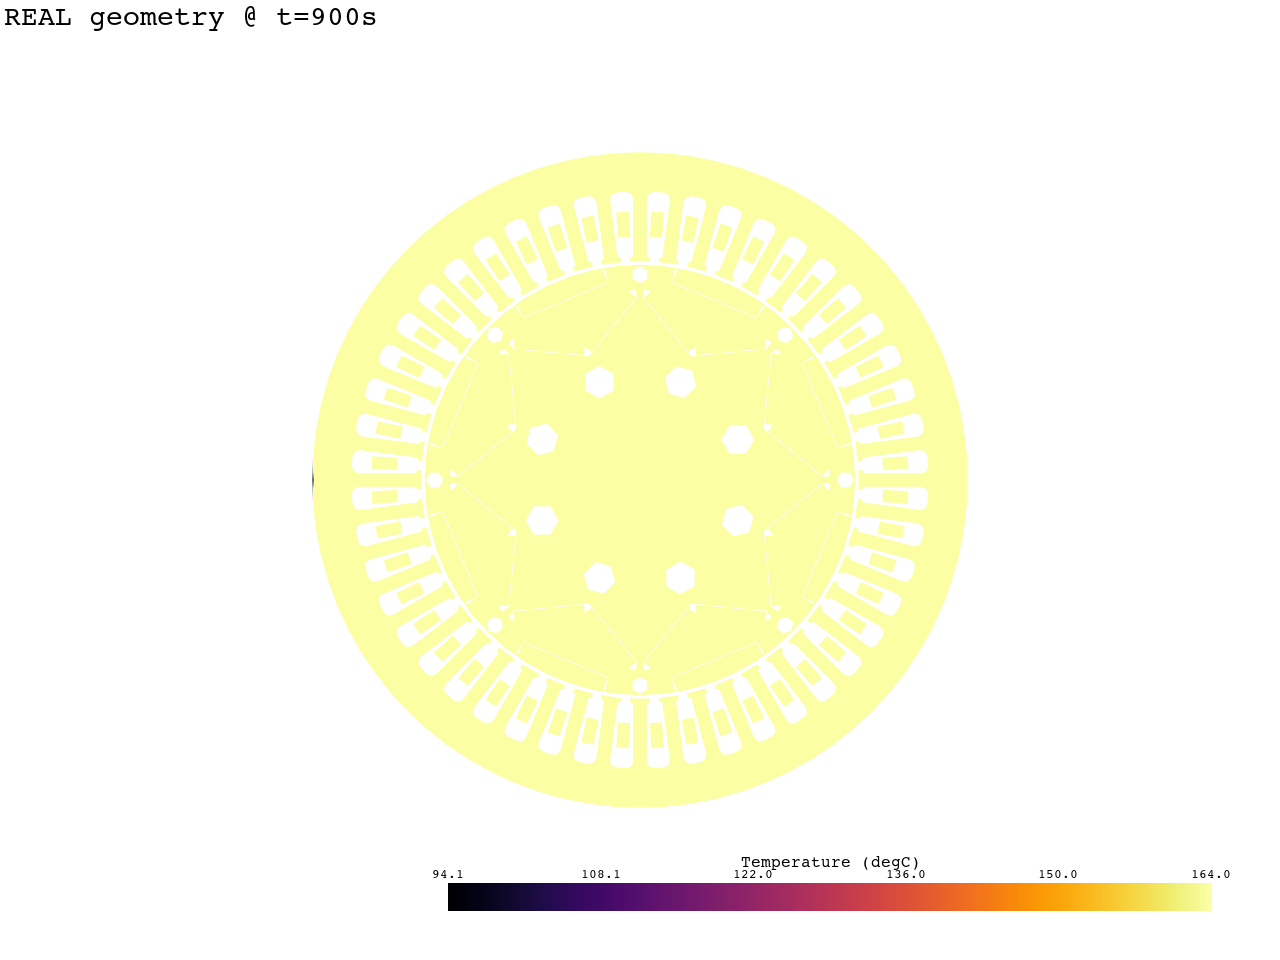
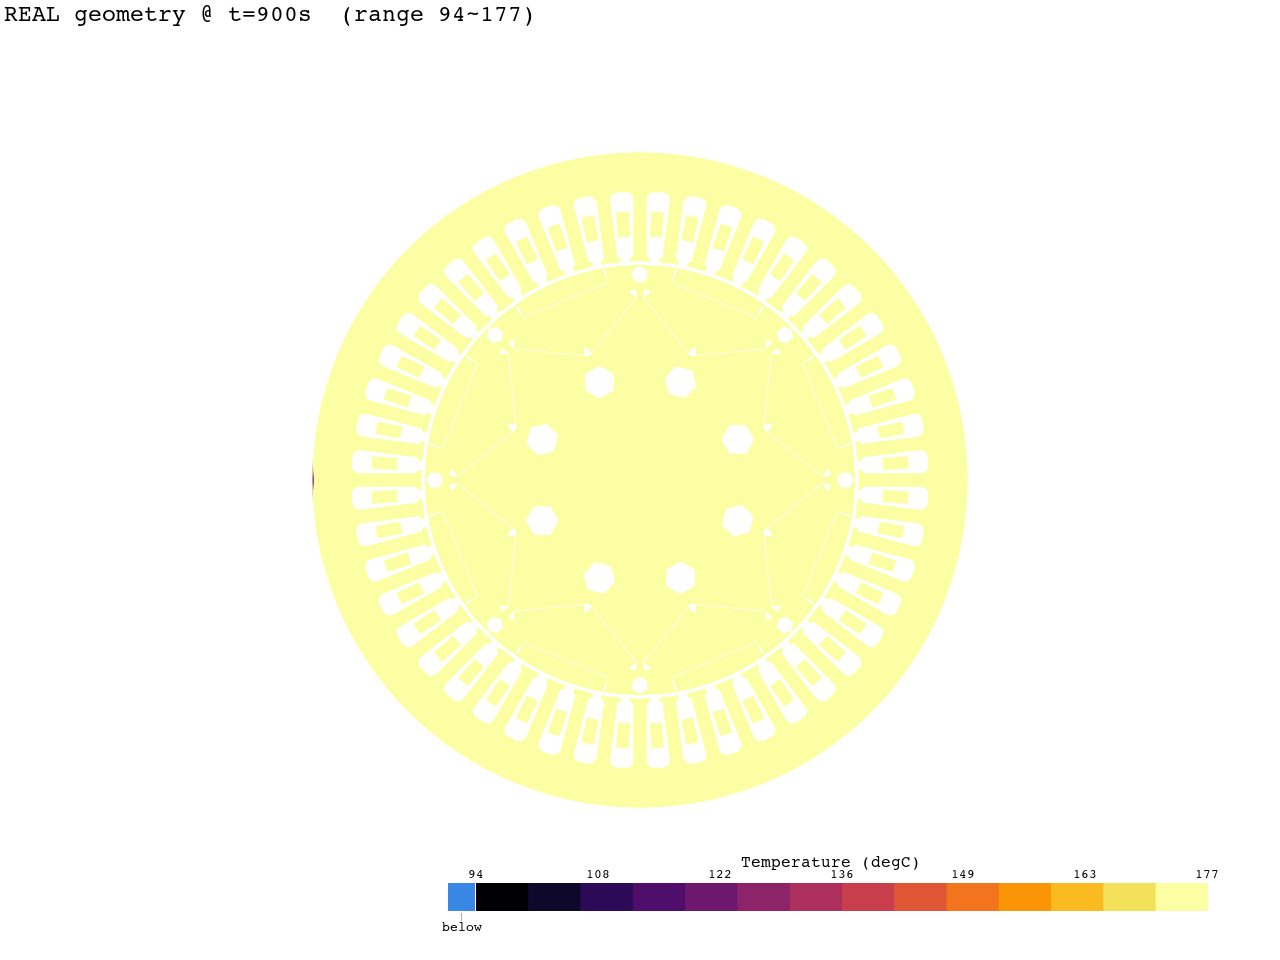
[THERMAL] SURF152 결합 시각화 + 컨투어 균일해 보임 원인 수정
- real_couplings_3d(_cut).png: FEM 표면 패치를 대상 회로노드별 카테고리색으로
  칠하고 같은 색 노드 구체와 튜브 연결 - 스테이터OD 3분할(H_WJ/H_RST/ATF),
  공극 양면(GAP_S/R), 코일컷->CEND, 정션(2xTCC) 회색 등 결합 구조 한눈에.
- 컨투어/GIF 개선: clim 이 회로노드 온도(CEND_AIR 219.9C)에 오염되던 버그 수정
  (솔리드 전용 범위 70~177.2C) + 이산 컬러밴드(n_colors=14)로 저 Biot 수 기계의
  좁은 내부 온도폭(141~177C)이 읽히게 함. real_contour_iso_band.png 는
  140C~ 좁은범위 뷰(WJ 패치는 하한색 클립).
- 균일해 보이는 것 자체는 물리(내부전도저항<<표면저항, 전 기계 온도폭 36K).

Changed region(s): [[0.3438, 0.9062, 0.5938, 0.9688], [0.0, 0.0, 0.4062, 0.0312], [0.8125, 0.9062, 0.9688, 0.9688]]

diff --git a/mlxperPJT/thermal/make_couplings_viz.py b/mlxperPJT/thermal/make_couplings_viz.py
@@ -1,0 +1,156 @@
+# -*- coding: utf-8 -*-
+"""SURF152 결합 시각화: FEM 표면 패치(노드별 색) <-> 회로 노드."""
+import os
+import glob
+import traceback
+import numpy as np
+
+SP = r"C:\Users\moa\AppData\Local\Temp\claude\d--KDH-NvidiaNemo\292f8893-fe65-44a6-9565-cb88503b2e90\scratchpad"
+OUT = os.path.join(SP, "viz_real")
+log = open(os.path.join(SP, "viz_coup.txt"), "w", encoding="utf-8")
+def P(*a):
+    log.write(" ".join(str(x) for x in a) + "\n"); log.flush()
+
+try:
+    import pyvista as pv
+    from ansys.mapdl import reader as rd
+    pv.OFF_SCREEN = True
+
+    rth = sorted(glob.glob(os.path.join(SP, "real_*", "file.rth")),
+                 key=os.path.getmtime)[-1]
+    res = rd.read_binary(rth)
+    grid = res.grid.copy()
+    tets = np.isin(grid.celltypes, (10, 24))
+    solid = grid.extract_cells(tets)
+    mats = np.asarray(solid.cell_data["ansys_material_type"])
+    surf = solid.extract_surface(pass_cellid=True)
+    oc = np.asarray(surf.cell_data["vtkOriginalCellIds"])
+    smat = mats[oc]
+    cc = surf.cell_centers().points
+    r = np.hypot(cc[:, 0], cc[:, 1])
+    th = np.degrees(np.arctan2(cc[:, 1], cc[:, 0]))
+    z = cc[:, 2]
+
+    R_SO, R_SI, R_RO = 0.099, 0.066, 0.065
+    STACK, ROT_ST = 0.160, 0.150
+    atf_q = (th > -135) & (th < -45)
+    wj_q = (th > 45) & (th < 135)
+
+    # 분류 (러너의 SURF152 선택 로직과 동일 기준)
+    cat = np.full(len(cc), -1, dtype=int)
+    names = {}
+    def C(idx, mask, name):
+        cat[mask & (cat == -1)] = idx
+        names[idx] = name
+    C(0, (smat == 1) & (r > R_SO - 8e-4) & wj_q, "stator OD -> H_WJ (h=3000)")
+    C(1, (smat == 1) & (r > R_SO - 8e-4) & atf_q, "stator OD -> ATF (h=300)")
+    C(2, (smat == 1) & (r > R_SO - 8e-4), "stator OD -> H_RST (h=3000)")
+    C(3, (smat == 1) & (np.abs(r - R_SI) < 8e-4), "stator bore -> GAP_S")
+    C(4, (smat == 5) & (r > R_RO - 8e-4) & (np.abs(z) < ROT_ST / 2 - 1e-3),
+      "rotor OD -> GAP_R")
+    C(5, (smat == 4) & (np.abs(z) > ROT_ST / 2 + 1e-4), "shaft ext -> SHF")
+    C(6, (smat == 5) & (np.abs(np.abs(z) - ROT_ST / 2) < 5e-4),
+      "rotor end -> AIR (h=10)")
+    C(7, (smat == 1) & (np.abs(np.abs(z) - STACK / 2) < 5e-4),
+      "stator end -> AIR (h=10)")
+    C(8, (smat == 3) & (np.abs(np.abs(z) - STACK / 2) < 5e-4) & atf_q,
+      "coil cut -> CEND_ATF")
+    C(9, (smat == 3) & (np.abs(np.abs(z) - STACK / 2) < 5e-4),
+      "coil cut -> CEND_AIR")
+    C(10, (smat == 3), "coil<->core slot junction (2xTCC)")
+    C(11, (smat == 1) & (r > R_SI) & (r < R_SO - 1e-3),
+      "slot wall<->junction (2xTCC)")
+    P("category cells:", {names.get(k, k): int((cat == k).sum())
+                          for k in sorted(set(cat.tolist()))})
+    surf.cell_data["coupling"] = cat
+
+    # 카테고리 색 (검증된 팔레트 8 + 보조)
+    PAL = {0: "#2a78d6", 2: "#1baf7a", 1: "#eda100", 3: "#4a3aa7",
+           4: "#e34948", 5: "#e87ba4", 6: "#008300", 7: "#7bbf6a",
+           8: "#eb6834", 9: "#b45309", 10: "#8a8878", 11: "#c3c2b7",
+           -1: "#eeede6"}
+    node_of = {0: "H_WJ", 1: "ATF", 2: "H_RST", 3: "GAP_S", 4: "GAP_R",
+               5: "SHF", 6: "AIR", 7: "AIR", 8: "CEND_ATF", 9: "CEND_AIR"}
+    P3 = {"WJ": (0, R_SO + 0.055, 0), "H_WJ": (0, R_SO + 0.025, 0),
+          "ATF": (0, -(R_SO + 0.055), 0), "H_ATF": (0, -(R_SO + 0.025), 0),
+          "H_RST": (R_SO + 0.025, 0, 0), "AMB": (R_SO + 0.095, 0, 0.02),
+          "AIR": (R_SO * 0.55, 0, STACK / 2 + 0.045),
+          "SHF": (0, 0, -(STACK / 2 + 0.06)),
+          "GAP_S": (R_SI + 0.006, 0, STACK * 0.30),
+          "GAP_R": (R_RO - 0.006, 0, -STACK * 0.30),
+          "CEND_ATF": (0, -0.075, STACK / 2 + 0.035),
+          "CEND_AIR": (0, 0.075, STACK / 2 + 0.035)}
+
+    p = pv.Plotter(off_screen=True, window_size=(1500, 1100))
+    p.set_background("white")
+    # 패치별로 add (categorical 고정색)
+    for k in sorted(names):
+        m = cat == k
+        if not m.any():
+            continue
+        part = surf.extract_cells(np.where(m)[0])
+        p.add_mesh(part, color=PAL[k], opacity=1.0 if k < 10 else 0.35,
+                   lighting=True, smooth_shading=False,
+                   ambient=0.55, diffuse=0.45,
+                   label=names[k])
+    # 미결합 면 (반투명 배경)
+    rest = surf.extract_cells(np.where(cat == -1)[0])
+    if rest.n_cells:
+        p.add_mesh(rest, color="#eeede6", opacity=0.15, lighting=True,
+                   ambient=0.5)
+    # 회로 노드 구체 (해당 패치색) + 패치 중심 -> 노드 연결 튜브
+    for k, nd in node_of.items():
+        m = cat == k
+        if not m.any() or nd not in P3:
+            continue
+        cen = cc[m].mean(axis=0)
+        p.add_mesh(pv.Line(tuple(cen), P3[nd]).tube(radius=0.0015),
+                   color=PAL[k], opacity=0.85)
+    drawn = set()
+    for k, nd in node_of.items():
+        if nd in drawn or nd not in P3:
+            continue
+        drawn.add(nd)
+        p.add_mesh(pv.Sphere(radius=0.010, center=P3[nd]), color=PAL[k],
+                   smooth_shading=True, ambient=0.5)
+    pts = np.array([P3[n] for n in drawn]) + np.array([0.012, 0.010, 0])
+    p.add_point_labels(pts, list(drawn), font_size=15, text_color="black",
+                       shape_color="white", shape_opacity=0.8,
+                       always_visible=True, show_points=False)
+    p.add_legend(bcolor="white", face=None, size=(0.32, 0.30),
+                 loc="lower right")
+    p.add_text("SURF152 couplings: FEM faces -> circuit nodes "
+               "(patch color = target node)", font_size=12, color="black")
+    p.view_vector((1, -0.4, 0.5), viewup=(0, 1, 0))
+    p.camera.zoom(1.15)
+    p.screenshot(os.path.join(OUT, "real_couplings_3d.png"))
+    p.close()
+
+    # 반단면 뷰(내부 결합이 보이게): x>0 절반 클립
+    p = pv.Plotter(off_screen=True, window_size=(1500, 1100))
+    p.set_background("white")
+    clipped = surf.clip(normal=(1, 0, 0), origin=(0, 0, 0), invert=False)
+    ccat = np.asarray(clipped.cell_data["coupling"])
+    for k in sorted(names):
+        m = ccat == k
+        if not m.any():
+            continue
+        part = clipped.extract_cells(np.where(m)[0])
+        p.add_mesh(part, color=PAL[k], lighting=True,
+                   ambient=0.55, diffuse=0.45, label=names[k])
+    rest = clipped.extract_cells(np.where(ccat == -1)[0])
+    if rest.n_cells:
+        p.add_mesh(rest, color="#eeede6", opacity=0.25, lighting=True)
+    p.add_legend(bcolor="white", face=None, size=(0.32, 0.30),
+                 loc="lower right")
+    p.add_text("SURF152 couplings - half-section view", font_size=12,
+               color="black")
+    p.view_vector((-1, -0.35, 0.4), viewup=(0, 1, 0))
+    p.camera.zoom(1.2)
+    p.screenshot(os.path.join(OUT, "real_couplings_3d_cut.png"))
+    p.close()
+    P("DONE-OK")
+except Exception:
+    P("EXC:", traceback.format_exc())
+finally:
+    log.close(); os._exit(0)

diff --git a/mlxperPJT/thermal/make_banded_contours.py b/mlxperPJT/thermal/make_banded_contours.py
@@ -1,0 +1,63 @@
+# -*- coding: utf-8 -*-
+"""iso/슬라이스 재생성: 솔리드 clim + 이산밴드 + 좁은범위(표면 구조) 뷰."""
+import os, glob, traceback
+import numpy as np
+log = open(r"C:\Users\moa\AppData\Local\Temp\claude\d--KDH-NvidiaNemo\292f8893-fe65-44a6-9565-cb88503b2e90\scratchpad\iso_banded.txt", "w", encoding="utf-8")
+def P(*a): log.write(" ".join(str(x) for x in a) + "\n"); log.flush()
+try:
+    import pyvista as pv
+    from ansys.mapdl import reader as rd
+    pv.OFF_SCREEN = True
+    SP = r"C:\Users\moa\AppData\Local\Temp\claude\d--KDH-NvidiaNemo\292f8893-fe65-44a6-9565-cb88503b2e90\scratchpad"
+    OUT = os.path.join(SP, "viz_real")
+    rth = sorted(glob.glob(os.path.join(SP, "real_*", "file.rth")),
+                 key=os.path.getmtime)[-1]
+    res = rd.read_binary(rth)
+    grid = res.grid.copy()
+    solid = grid.extract_cells(np.isin(grid.celltypes, (10, 24)))
+    opid = solid.point_data["vtkOriginalPointIds"]
+    _, T = res.nodal_temperature(res.nsets - 1)
+    Ts = np.asarray(T, float)[opid]
+    solid.point_data["Temperature (degC)"] = Ts
+    P("body:", round(float(np.nanmin(Ts)),1), "~", round(float(np.nanmax(Ts)),1))
+    sb = dict(title="Temperature (degC)", title_font_size=16,
+              label_font_size=13, n_labels=7, fmt="%.0f", color="black")
+    surf = solid.extract_surface()
+    tmin, tmax = float(np.nanmin(Ts)), float(np.nanmax(Ts))
+    views = [
+        # 전체 범위 밴드 (경계층 포함)
+        ("real_contour_iso.png", surf, [tmin, tmax], 14, True),
+        # 좁은 범위: 표면(140~) 구조 강조, WJ 패치는 하한색 클립
+        ("real_contour_iso_band.png", surf, [140.0, tmax], 12, True),
+        ("real_contour_slice_x0.png", solid.slice(normal="x"),
+         [tmin, tmax], 14, False),
+        ("real_contour_slice_z0.png", solid.slice(normal="z"),
+         [tmin, tmax], 14, False),
+    ]
+    for fname, mesh, clim, nc, lit in views:
+        p = pv.Plotter(off_screen=True, window_size=(1280, 960))
+        p.set_background("white")
+        kw = dict(cmap="inferno", clim=clim, n_colors=nc,
+                  scalar_bar_args=sb, below_color="#3987e5")
+        if lit:
+            kw.update(smooth_shading=True, ambient=0.62, diffuse=0.38,
+                      specular=0.0)
+        else:
+            kw.update(lighting=False)
+        p.add_mesh(mesh, **kw)
+        p.add_text(f"REAL geometry @ t=900s  (range {clim[0]:.0f}~{clim[1]:.0f})",
+                   font_size=12, color="black")
+        if "slice_x0" in fname:
+            p.view_vector((1, 0, 0), viewup=(0, 1, 0))
+        elif "slice_z0" in fname:
+            p.view_xy()
+        else:
+            p.view_isometric()
+        p.screenshot(os.path.join(OUT, fname))
+        p.close()
+        P("saved", fname)
+    P("DONE-OK")
+except Exception:
+    P("EXC:", traceback.format_exc())
+finally:
+    log.close(); os._exit(0)
